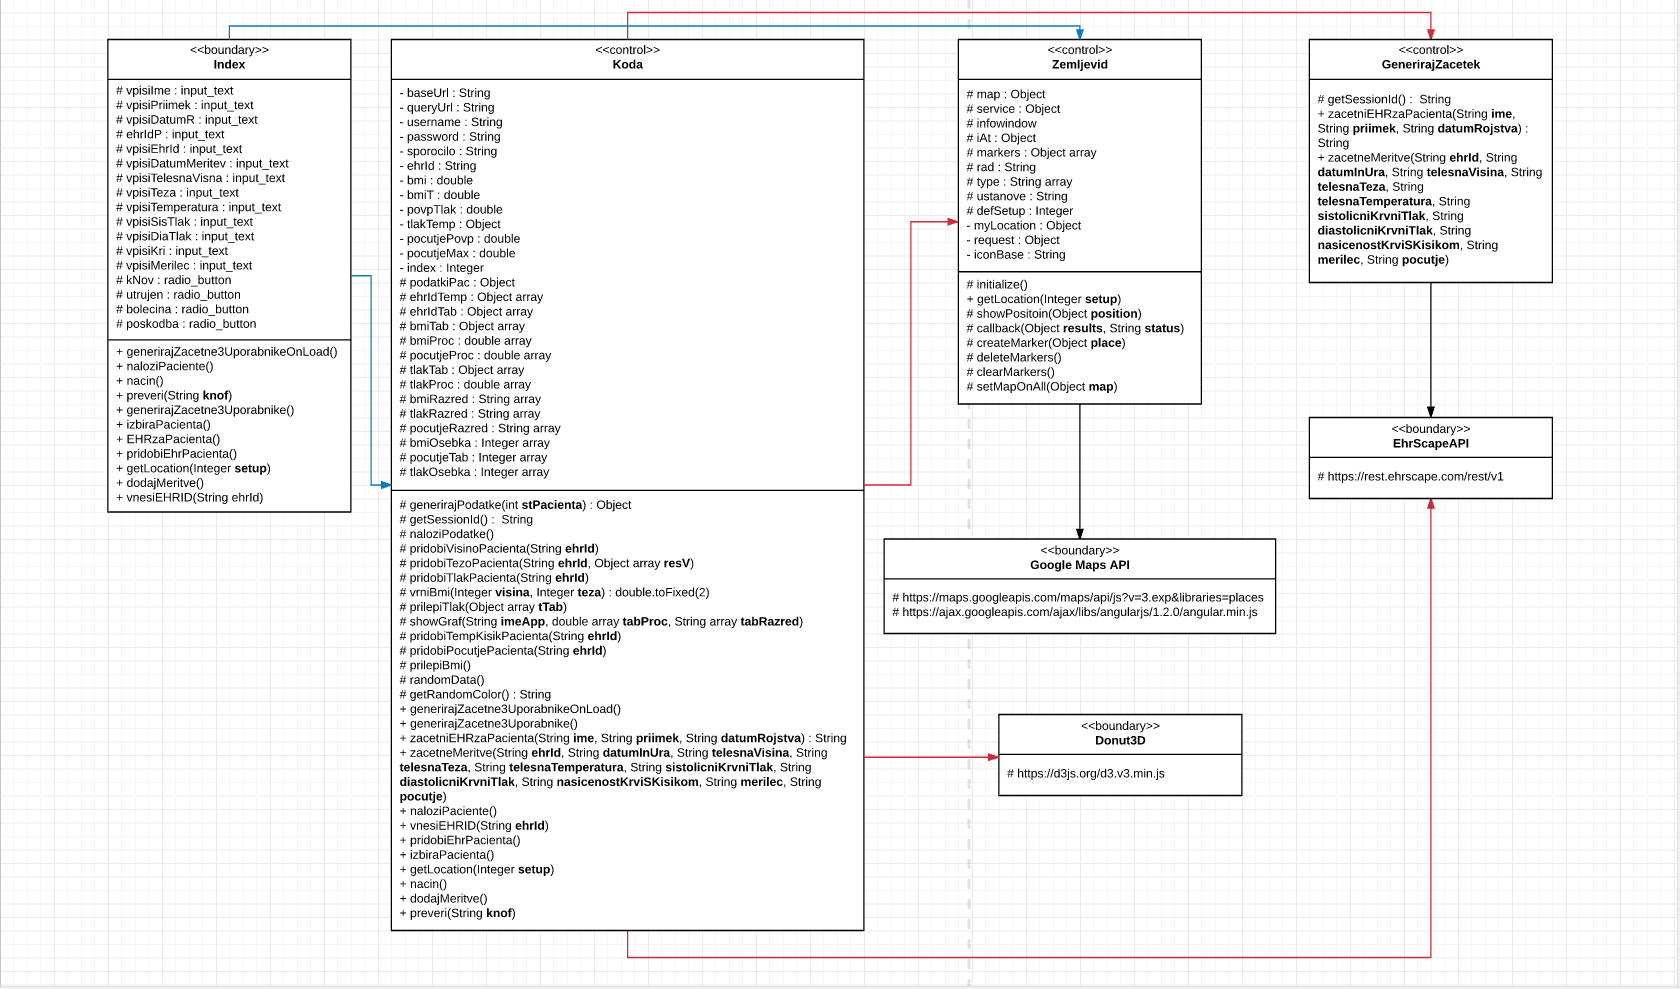
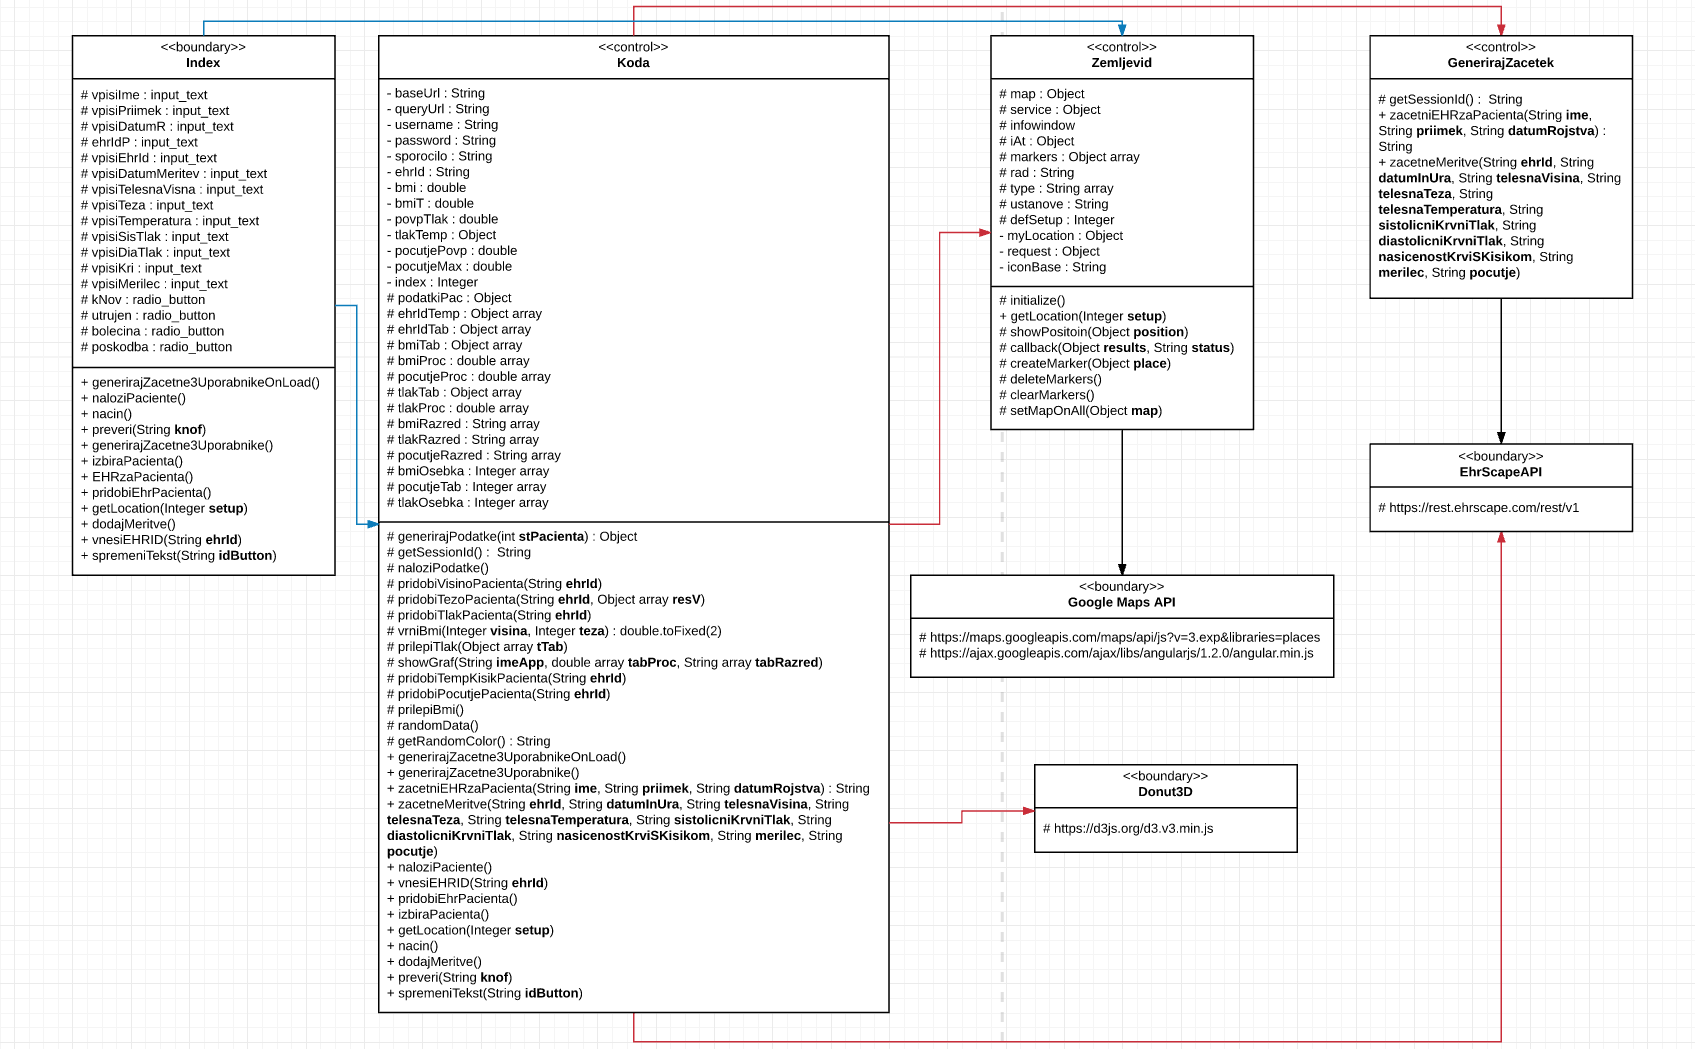
Posodobljen VOPC Global, spremenjen opis, popravljena koda za prikaz podatkov

Changed region(s): [[0.031, 0.0, 0.9595, 1.0], [0.7738, 0.3943, 0.9595, 0.5157]]

diff --git a/index.html b/index.html
@@ -198,7 +198,7 @@
         <div class="col-md-12">
           <div class="panel panel-default">
             <div class="panel-heading">
-                <h3 class="panel-title">Telesna teža in višina pacienta</h3>
+                <h3 class="panel-title">Telesna teža in višina pacienta <input type="button" class="btn btn-default" style="float: right" onclick="$('#visinaP').toggle(); $('#telesnaTezaP').toggle(); spremeniTekst('teza')" id="teza" value="Prikaži"></h3>
             </div>
             <div class="panel-body">
               <div class="row">
@@ -225,7 +225,7 @@
         <div class="col-md-12">
           <div class="panel panel-default">
             <div class="panel-heading">
-                <h3 class="panel-title">Sistolični in diastolični tlak pacienta</h3>
+                <h3 class="panel-title">Sistolični in diastolični tlak pacienta <input type="button" class="btn btn-default" style="float: right" onclick="$('#tlakP').toggle(); $('#tlakL').toggle(); spremeniTekst('tlak')" id="tlak" value="Prikaži"></h3>
             </div>
             <div class="panel-body">
               <div class="row">
@@ -250,7 +250,7 @@
         <div class="col-md-12">
           <div class="panel panel-default">
             <div class="panel-heading">
-                <h3 class="panel-title">Temperatura in kisik v krvi pacienta</h3>
+                <h3 class="panel-title">Temperatura in kisik v krvi pacienta <input type="button" class="btn btn-default" style="float: right" onclick="$('#temperaturaP').toggle(); $('#kisikVKrviP').toggle(); spremeniTekst('temp')" id="temp" value="Prikaži"></button></h3>
             </div>
             <div class="panel-body">
               <div class="row">
@@ -272,12 +272,12 @@
     </div>
     
     <div class="row" id="prikazPodatkov3">
-      <!-- ZAČETEK: Prikaz problemov -->
+      <!-- ZAČETEK: Prikaz počutja -->
       <div class="col-lg-6 col-md-6 col-sm-6">
         <div class="col-md-12">
           <div class="panel panel-default">
             <div class="panel-heading">
-                <h3 class="panel-title">Počutje pacienta</h3>
+                <h3 class="panel-title">Počutje pacienta <input type="button" class="btn btn-default" style="float: right" onclick="$('#pocutjeP').toggle(); $('#pocutjeL').toggle(); spremeniTekst('pocutje')" id="pocutje" value="Prikaži"></h3>
             </div>
             <div class="panel-body">
               <div class="row">
@@ -295,14 +295,14 @@
           </div>
         </div>
       </div>
-      <!-- KONEC: Prikaz problemov -->
+      <!-- KONEC: Prikaz počutja -->
       
       <!-- ZAČETEK: Prikaz bmi -->
       <div class="col-lg-6 col-md-6 col-sm-6">
         <div class="col-md-12">
           <div class="panel panel-default">
             <div class="panel-heading">
-                <h3 class="panel-title">Bmi povprečje pacienta</h3>
+                <h3 class="panel-title">Bmi povprečje pacienta <input type="button" class="btn btn-default" style="float: right" onclick="$('#bmiP').toggle(); $('#bmiL').toggle(); spremeniTekst('bmi')" id="bmi" value="Prikaži"></h3>
             </div>
             <div class="panel-body">
               <div class="row">

diff --git a/opis.html b/opis.html
@@ -83,9 +83,8 @@
           <div class="panel-body">
             <!-- ZAČETEK: Master/detail načrtovalski vzorec -->
             <p><strong>Uporabljen master/detail vzorec:</strong></p>
-            <p>Posodabljanje zemljevida glede na izbiro počutja.</p>
-            <p>Kot master/detail načrtovalski vzorec sem uporabil posodabljanje predlaganih lokacij na zemljevidu in naslova kaj zemljevid prikazuje glede na izbrano
-            počutje.</p>
+            <p>Prikaz ali skrivanje podatkov z gumbom.</p>
+            <p>Kot master/detail načrtovalski vzorec sem uporabil prikazovanje oziroma skrivanje podatkov o pacienti s pomočjo gumba, in spreminjanje teksta v gumbu glede na njegovo nalogo.</p>
             <!-- KONEC: Master/detail načrtovalski vzorec -->
           </div>
         </div>

diff --git a/knjiznice/js/koda.js b/knjiznice/js/koda.js
@@ -326,6 +326,16 @@ function naloziPodatke() {
   $("#prikazPodatkov1").show();
   $("#prikazPodatkov2").show();
   $("#prikazPodatkov3").show();
+  $("#visinaP").hide();
+  $("#telesnaTezaP").hide();
+  $("#tlakP").hide();
+  $("#tlakL").hide();
+  $("#temperaturaP").hide();
+  $("#kisikVKrviP").hide();
+  $("#pocutjeP").hide();
+  $("#pocutjeL").hide();
+  $("#bmiP").hide();
+  $("#bmiL").hide();
   $("#vrniGumb").show();
 }
 
@@ -939,4 +949,11 @@ function getRandomColor() {
         color += letters[Math.floor(Math.random() * 16)];
     }
     return color;
+}
+
+function spremeniTekst(idButton) {
+	if($("#"+idButton).val() == 'Prikaži')
+		$("#"+idButton).val('Skrij');
+	else if($("#"+idButton).val() == 'Skrij')
+		$("#"+idButton).val('Prikaži');
 }
